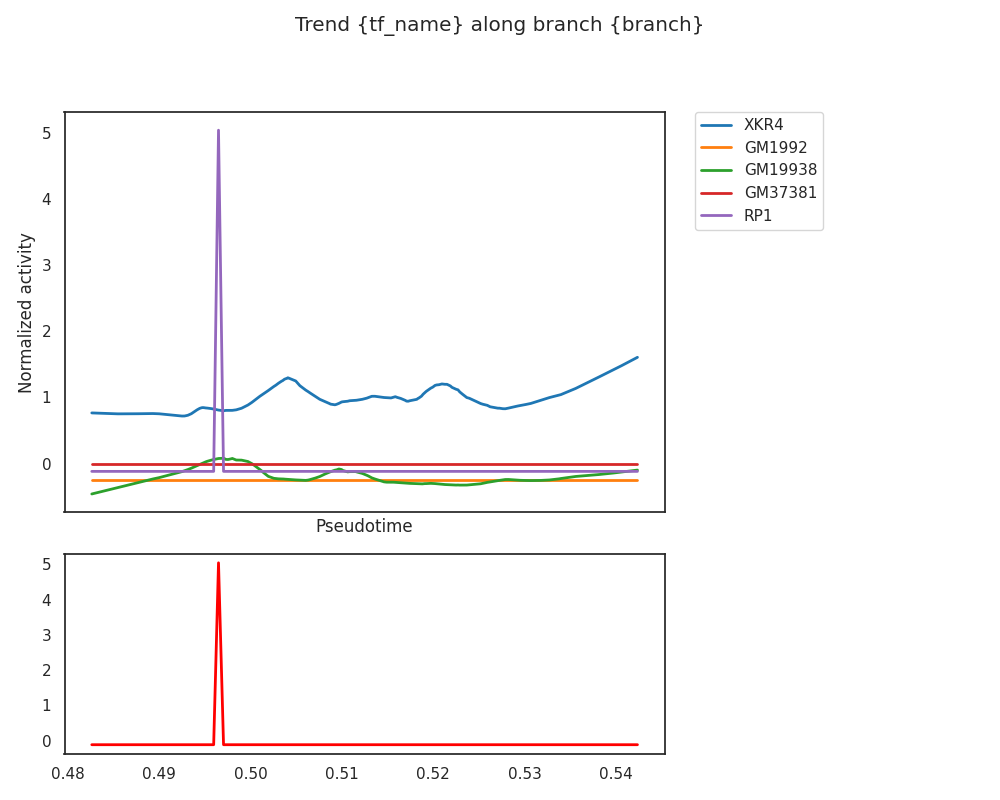
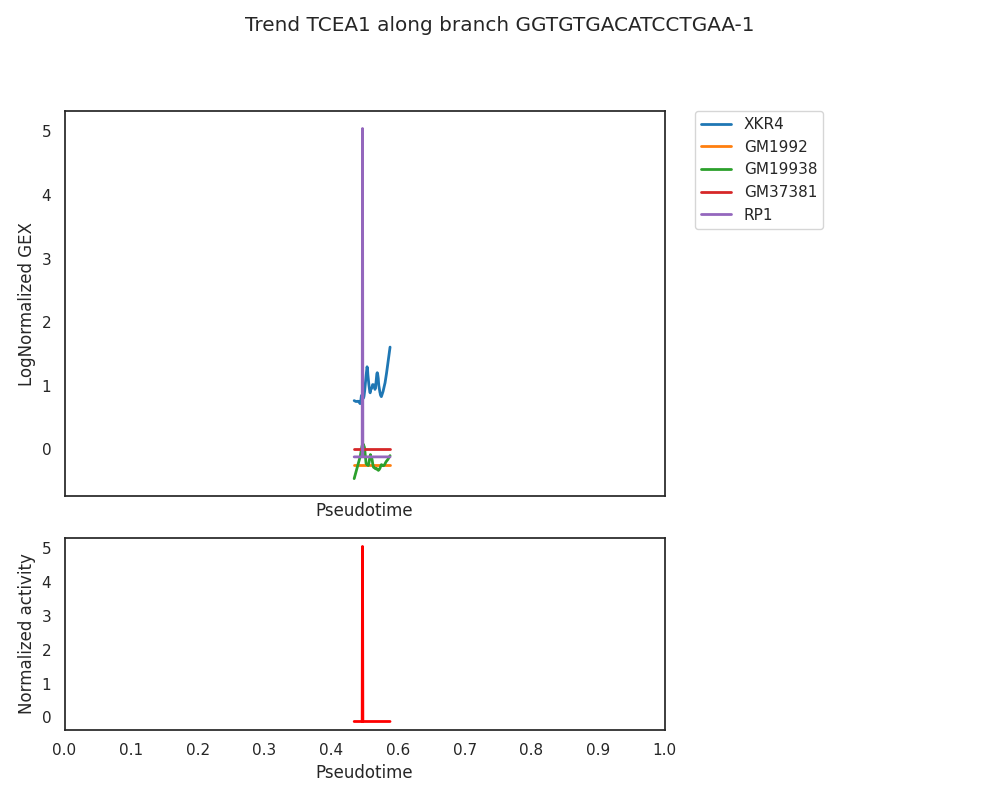
adjusted trend axes test

diff --git a/src/plots.py b/src/plots.py
@@ -294,12 +294,18 @@ def plot_expression(pseudotime:pd.Series, tf_activity: pd.Series, gene_expressio
 		ax_top.plot(smoothed[:,0], smoothed[:,1], color=color, linewidth = linewidth, label = f"{gene}")
 	ax_top.set_ylabel("LogNormalized GEX")
 	ax_top.set_xlabel("Pseudotime")
+	ax_top.set_xlim(0,1)
+	ax_top.set_xticks(np.linspace(0, 1, 10))
+	ax_top.set_xticklabels([f"{t:.1f}" for t in np.linspace(0, 1, 10)])
 	ax_top.legend(bbox_to_anchor = (1.05, 1), loc= "upper left", borderaxespad=0.)
 
 	smoothed_df = lowess(tf_activity, pseudotime, frac=frac)
 	ax_bottom.plot(smoothed[:,0], smoothed[:,1], color="red", linewidth = linewidth)
-	ax_top.set_ylabel("Normalized activity")
-	ax_top.set_xlabel("Pseudotime")
+	ax_bottom.set_ylabel("Normalized activity")
+	ax_bottom.set_xlabel("Pseudotime")
+	ax_bottom.set_xlim(0,1)
+	ax_bottom.set_xticks(np.linspace(0, 1, 10))
+	ax_bottom.set_xticklabels([f"{t:.1f}" for t in np.linspace(0, 1, 10)])
 
 	plt.tight_layout(rect=[0,0,0.85,0.93])
 
@@ -351,7 +357,7 @@ def plot_trend(data:MuData, genes_of_interest:Union[str, List[str]], tf_name:str
 	gene_idx = [filtered_data.var_names.get_loc(g) for g in genes_of_interest]
 	gene_expression = pd.DataFrame(filtered_data["rna"].X[:, gene_idx].toarray(), columns = genes_of_interest)
 
-	title = "Trend {tf_name} along branch {branch}"
+	title = f"Trend {tf_name} along branch {branch}"
 	plot_expression(pseudotime=pseudotime, tf_activity = tf_activity, gene_expression= gene_expression, title = title, saving_path = saving_path)
 			
 
